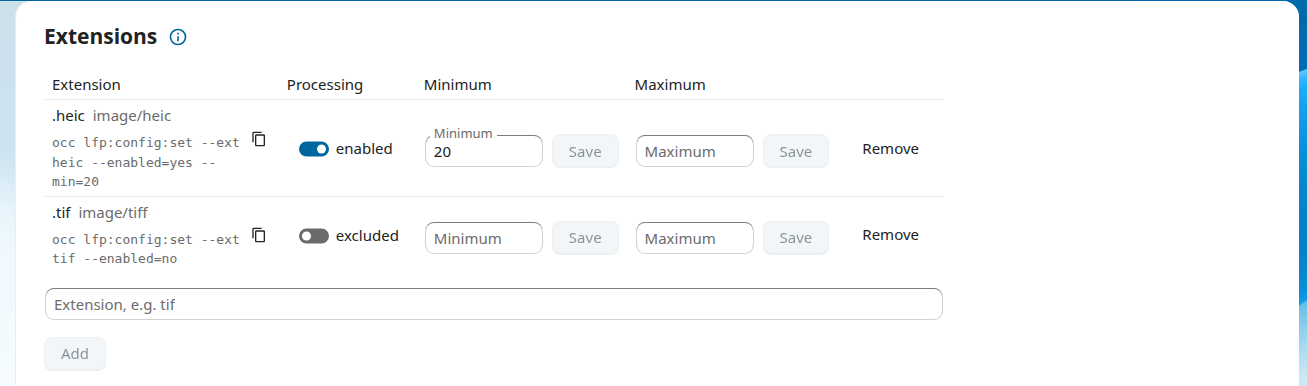
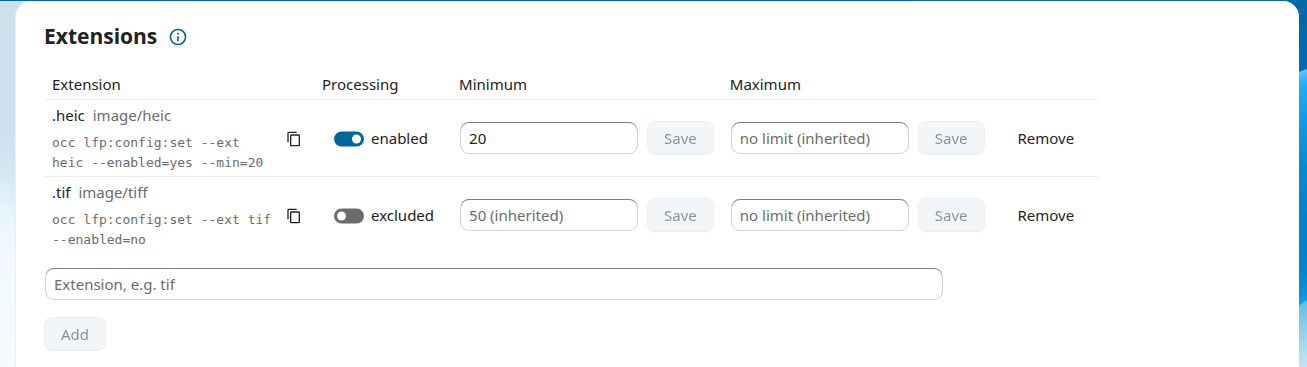
[FIX] Settings: an empty size field shows what it inherits, for MIME types and extensions alike
A rule's empty minimum or maximum now says what applies instead, as "50 (inherited)" or "no limit (inherited)", in the one row component both tables use.

Key changes:
- RuleRow.vue: the placeholder is what the row inherits, given to it, rather than worked out from what is stored, which only a MIME type had; its size fields keep their label off, where it covered the placeholder until the field had the focus
- TypesSection.vue: what each row inherits - a MIME type what it ships with, an extension its MIME type's size in force, each else the default
- NumberField.vue: a labelOutside option, the label then naming the field to assistive technology only; a rule's fields 12rem wide, room for "no limit (inherited)"
- settings-admin.css: a rule's name cell at least 18rem wide, so that the wider fields do not fold its command into five lines
- {value} (inherited): translated as "{value} (geerbt)" in de and de_DE, and in the glossary
- Vitest: what MIME types and extensions inherit, and the label kept off; Cypress: the placeholder of a TIFF and of a .heic row
- docs/Screenshots: MIME-Types and Extensions retaken, and Limits with them
- CHANGELOG.md: the settings page's bullet amended

Before, a MIME type's placeholder was set but hidden behind the field's label, and an extension had none.

diff --git a/src/settings-admin/RuleRow.vue b/src/settings-admin/RuleRow.vue
@@ -10,6 +10,10 @@
  *
  * A MIME type is enabled or disabled, and resets to what it ships with; an
  * extension is enabled, excluded, or as its MIME type, and is removed.
+ *
+ * A size field shows what is set at this level, and where nothing is, what
+ * it inherits as its placeholder: "50 (inherited)". The column header names
+ * the field, so its label stays off it, where it would cover the placeholder.
  */
 import { computed } from 'vue'
 import NcButton from '@nextcloud/vue/components/NcButton'
@@ -19,7 +23,7 @@ import OccCommand from './OccCommand.vue'
 import { ruleCommand } from './occ'
 import { rendererProblem } from './renderer'
 import { t } from '../l10n'
-import type { Renderer, Rule, RuleChange } from './types'
+import type { Inherited, Renderer, Rule, RuleChange } from './types'
 
 const props = withDefaults(defineProps<{
 	kind: 'mime' | 'ext'
@@ -38,11 +42,14 @@ const props = withDefaults(defineProps<{
 	mime?: string | null
 	/** An extension selected anyway by its MIME type, with no size of its own. */
 	noEffect?: boolean
+	/** What each size field falls back to where nothing is set at this level. */
+	inherits?: Inherited | null
 }>(), {
 	shipped: null,
 	stored: null,
 	mime: null,
 	noEffect: false,
+	inherits: null,
 })
 
 const emit = defineEmits<{
@@ -69,16 +76,15 @@ function switchText(): string {
 /** What is set at this level: a MIME type's stored fields, an extension's rule. */
 const own = computed<Rule>(() => props.stored ?? props.rule)
 
-/**
- * A MIME type's size in force, for a field left empty to show as what it
- * follows; an extension's comes from its MIME type, which the row does not
- * hold.
- */
-function inherited(value: number | undefined): string | null {
-	if (props.stored === null || value === undefined) {
+/** What a size field left empty inherits, as its placeholder. */
+function inherited(field: keyof Inherited): string | null {
+	if (props.inherits === null) {
 		return null
 	}
-	return value === -1 ? t('large_file_previews', 'no limit') : String(value)
+	const value = props.inherits[field]
+	return t('large_file_previews', '{value} (inherited)', {
+		value: value === -1 ? t('large_file_previews', 'no limit') : String(value),
+	})
 }
 
 function fieldId(field: string): string {
@@ -88,7 +94,7 @@ function fieldId(field: string): string {
 
 <template>
 	<tr :class="{ 'lfp-unavailable': !renderer.available }">
-		<td>
+		<td class="lfp-rule-name">
 			<template v-if="kind === 'ext'">
 				.{{ name }}
 				<span class="lfp-hint">{{ mime ?? '' }}</span>
@@ -112,10 +118,11 @@ function fieldId(field: string): string {
 			<NumberField :id="fieldId('min')"
 				:label="t('large_file_previews', 'Minimum')"
 				:value="own.min_size_mb ?? null"
-				:placeholder="inherited(rule.min_size_mb)"
+				:placeholder="inherited('min_size_mb')"
 				:min="0"
 				clearable
 				narrow
+				label-outside
 				:disabled="saving || !renderer.available"
 				@save="emit('save', { min_size_mb: $event })" />
 		</td>
@@ -123,10 +130,11 @@ function fieldId(field: string): string {
 			<NumberField :id="fieldId('max')"
 				:label="t('large_file_previews', 'Maximum')"
 				:value="own.max_size_mb ?? null"
-				:placeholder="inherited(rule.max_size_mb)"
+				:placeholder="inherited('max_size_mb')"
 				:min="-1"
 				clearable
 				narrow
+				label-outside
 				:disabled="saving || !renderer.available"
 				@save="emit('save', { max_size_mb: $event })" />
 		</td>

diff --git a/src/settings-admin/TypesSection.vue b/src/settings-admin/TypesSection.vue
@@ -7,7 +7,9 @@
  * scanned pages, each MIME type and each extension.
  *
  * Each table shows only what is set at its own level; an empty size field
- * is not set there. What applies in the end is the table at the top, "What
+ * is not set there, and its placeholder says what it inherits: a MIME type
+ * what it ships with, an extension its MIME type's size, each else the
+ * default. What applies in the end is the table at the top, "What
  * is processed". Each rule's row is a RuleRow; what each part means is
  * behind its ⓘ.
  */
@@ -23,9 +25,9 @@ import RuleRow from './RuleRow.vue'
 import { scalarCommand } from './occ'
 import { t } from '../l10n'
 import { scalarChange } from './types'
-import type { Changes, RuleChange, SettingsState } from './types'
+import type { Changes, Inherited, Rule, RuleChange, SettingsState } from './types'
 
-defineProps<{
+const props = defineProps<{
 	state: SettingsState
 	saving: boolean
 }>()
@@ -35,6 +37,19 @@ const emit = defineEmits<{
 }>()
 
 const newExtension = ref('')
+
+/** What a rule's empty size fields inherit: the level below's sizes, else the defaults. */
+function inheritsFrom(below: Rule | null): Inherited {
+	return {
+		min_size_mb: below?.min_size_mb ?? props.state.scalars.min_size_mb.value,
+		max_size_mb: below?.max_size_mb ?? props.state.scalars.max_size_mb.value,
+	}
+}
+
+/** An extension's MIME type's rule in force, where the app handles the type. */
+function mimeRule(mime: string | null): Rule | null {
+	return props.state.mimetypes.find((row) => row.mime === mime)?.rule ?? null
+}
 
 function saveMime(mime: string, change: RuleChange | null): void {
 	emit('save', { mimetypes: { [mime]: change } })
@@ -137,6 +152,7 @@ function addExtension(): void {
 					:rule="row.rule"
 					:stored="row.stored"
 					:shipped="row.default"
+					:inherits="inheritsFrom(row.default)"
 					:renderer="row.renderer"
 					:saving="saving"
 					@save="saveMime(row.mime, $event)" />
@@ -166,6 +182,7 @@ function addExtension(): void {
 					:name="row.extension"
 					:mime="row.mime"
 					:rule="row.rule"
+					:inherits="inheritsFrom(mimeRule(row.mime))"
 					:renderer="row.renderer"
 					:no-effect="row.noEffect"
 					:saving="saving"

diff --git a/src/settings-admin/TypesSection.spec.ts b/src/settings-admin/TypesSection.spec.ts
@@ -12,6 +12,15 @@ function row(wrapper: ReturnType<typeof section>, selector: string) {
 	return wrapper.find(selector)
 }
 
+/** The placeholders of a row's size fields, minimum first. */
+function placeholders(wrapper: ReturnType<typeof section>, selector: string): unknown[] {
+	const found: unknown[] = []
+	for (const field of row(wrapper, selector).findAllComponents({ name: 'NumberField' })) {
+		found.push(field.props('placeholder'))
+	}
+	return found
+}
+
 function tif(extra: Partial<ExtensionRow> = {}): ExtensionRow {
 	return {
 		extension: 'tif',
@@ -43,8 +52,32 @@ describe('TypesSection', () => {
 		const fields = row(section(state), '[data-mime="image/tiff"]').findAllComponents({ name: 'NumberField' })
 
 		expect(fields[0].props('value')).toBeNull()
-		expect(fields[0].props('placeholder')).toBe('50')
+		expect(fields[0].props('placeholder')).toBe('50 (inherited)')
 		expect(fields[1].props('value')).toBe(900)
+	})
+
+	it('shows what a MIME type\'s empty fields inherit: what it ships with, else the default', () => {
+		expect(placeholders(section(), '[data-mime="application/pdf"]')).toEqual(['0 (inherited)', 'no limit (inherited)'])
+	})
+
+	it('shows what an extension\'s empty fields inherit: its MIME type\'s size in force, else the default', () => {
+		const state = testState()
+		state.mimetypes[1].rule = { enabled: true, min_size_mb: 70 }
+		state.extensions = [
+			tif({ rule: { enabled: true } }),
+			tif({ extension: '7z', mime: 'application/x-7z-compressed', rule: { enabled: true } }),
+		]
+		const wrapper = section(state)
+
+		expect(placeholders(wrapper, '[data-extension="tif"]')).toEqual(['70 (inherited)', 'no limit (inherited)'])
+		expect(placeholders(wrapper, '[data-extension="7z"]')).toEqual(['0 (inherited)', 'no limit (inherited)'])
+	})
+
+	it('keeps a rule\'s size labels off its fields, where they would cover the placeholder', () => {
+		for (const field of row(section(), '[data-mime="application/pdf"]').findAllComponents({ name: 'NumberField' })) {
+			expect(field.props('labelOutside')).toBe(true)
+			expect(field.find('input').attributes('aria-label')).toBe(field.props('label'))
+		}
 	})
 
 	it('gives an extension the command for its rule', () => {

diff --git a/src/settings-admin/NumberField.vue b/src/settings-admin/NumberField.vue
@@ -8,6 +8,10 @@
  * is not set at this level. The field shows only what is set here, never a
  * value from another level; what applies where it is empty may be its
  * placeholder. Its help, where it has one, is an ⓘ after the button.
+ *
+ * A label inside the field covers the placeholder until the field has the
+ * focus; where a column header names the field, `labelOutside` drops the
+ * label, which then names the field to assistive technology only.
  */
 import { computed, ref, watch } from 'vue'
 import NcButton from '@nextcloud/vue/components/NcButton'
@@ -23,6 +27,8 @@ const props = withDefaults(defineProps<{
 	max?: number | null
 	clearable?: boolean
 	narrow?: boolean
+	/** No visible label, so that the placeholder shows: a column header names the field. */
+	labelOutside?: boolean
 	disabled?: boolean
 	/** What applies where the field is empty: the value of the level below. */
 	placeholder?: string | null
@@ -33,6 +39,7 @@ const props = withDefaults(defineProps<{
 	max: null,
 	clearable: false,
 	narrow: false,
+	labelOutside: false,
 	disabled: false,
 	placeholder: null,
 	help: null,
@@ -73,6 +80,8 @@ function save(): void {
 			class="lfp-number__field"
 			type="number"
 			:label="label"
+			:label-outside="labelOutside"
+			:aria-label="labelOutside ? label : undefined"
 			:placeholder="placeholder ?? undefined"
 			:min="min ?? undefined"
 			:max="max ?? undefined"
@@ -103,8 +112,9 @@ function save(): void {
 	width: 16rem;
 }
 
+/* A rule's size: wide enough for what it inherits, "no limit (inherited)". */
 .lfp-number--narrow .lfp-number__field {
-	width: 8rem;
+	width: 12rem;
 }
 
 .lfp-number__save {

diff --git a/tests/e2e/settings.cy.js b/tests/e2e/settings.cy.js
@@ -10,7 +10,7 @@ const EXTENSIONS = [ '7z', 'heic', 'pdf' ]
 // A type that ships a minimum of its own, 50 MiB: the field shows what is
 // stored, and the shipped value only as its placeholder.
 const MIME = 'image/tiff'
-const SHIPPED_MIN = '50'
+const SHIPPED_MIN = '50 (inherited)'
 
 // @nextcloud/dialogs' toast container; its class is a CSS-module hash, so
 // it is matched by the stable half of the name, as src/toast.css does.
@@ -75,6 +75,10 @@ describe( 'The settings page', () => {
 		cy.get( 'tr[data-extension="heic"]', { timeout: FIND_TIMEOUT } )
 			.should( 'contain', 'image/heic' )
 			.and( 'contain', 'enabled' )
+		// Its sizes are empty, and inherit HEIC's: a minimum of 50 MiB, no
+		// maximum.
+		cy.get( 'input[id="lfp-min-ext-heic"]' ).should( 'have.value', '' ).and( 'have.attr', 'placeholder', '50 (inherited)' )
+		cy.get( 'input[id="lfp-max-ext-heic"]' ).should( 'have.value', '' ).and( 'have.attr', 'placeholder', 'no limit (inherited)' )
 		cy.get( '.lfp-active tbody tr' ).filter( ':contains(".heic")' )
 			.should( 'have.length', 1 )
 			.and( 'contain', 'image/heic' )

diff --git a/src/settings-admin/NumberField.spec.ts b/src/settings-admin/NumberField.spec.ts
@@ -64,6 +64,17 @@ describe('NumberField', () => {
 		expect(wrapper.element.lastElementChild?.classList.contains('lfp-help')).toBe(true)
 	})
 
+	it('drops its visible label where it is outside, and stays named by it', () => {
+		const inside = field({ value: null, placeholder: '50 (inherited)' }).wrapper
+		const outside = field({ value: null, placeholder: '50 (inherited)', labelOutside: true }).wrapper
+
+		expect(inside.find('label').text()).toBe('Seconds')
+		expect(inside.find('input').attributes('aria-label')).toBeUndefined()
+		expect(outside.find('label').exists()).toBe(false)
+		expect(outside.find('input').attributes('aria-label')).toBe('Seconds')
+		expect(outside.find('input').attributes('placeholder')).toBe('50 (inherited)')
+	})
+
 	it('has no help button without a help text', () => {
 		expect(field().wrapper.findComponent(HelpPopover).exists()).toBe(false)
 	})

diff --git a/src/settings-admin/types.ts b/src/settings-admin/types.ts
@@ -91,6 +91,16 @@ export interface ActiveRow {
 	max_size_mb: Sourced<number>
 }
 
+/**
+ * What a rule's size fields fall back to where nothing is set at its level:
+ * for a MIME type, what it ships with, else the default; for an extension,
+ * its MIME type's size in force, else the default.
+ */
+export interface Inherited {
+	min_size_mb: number
+	max_size_mb: number
+}
+
 export interface MimeRow {
 	mime: string
 	/** The rule in force: the shipped default with what is stored laid over it. */

diff --git a/l10n/de.js b/l10n/de.js
@@ -161,6 +161,7 @@ OC.L10N.register(
     "system config" : "Systemkonfiguration",
     "the PHP extension %s is missing" : "die PHP-Erweiterung %s fehlt",
     "the PHP function %s is disabled" : "die PHP-Funktion %s ist deaktiviert",
-    "the program %s is missing" : "das Programm %s fehlt"
+    "the program %s is missing" : "das Programm %s fehlt",
+    "{value} (inherited)" : "{value} (geerbt)"
 },
 "nplurals=2; plural=(n != 1);");

diff --git a/l10n/de_DE.js b/l10n/de_DE.js
@@ -161,6 +161,7 @@ OC.L10N.register(
     "system config" : "Systemkonfiguration",
     "the PHP extension %s is missing" : "die PHP-Erweiterung %s fehlt",
     "the PHP function %s is disabled" : "die PHP-Funktion %s ist deaktiviert",
-    "the program %s is missing" : "das Programm %s fehlt"
+    "the program %s is missing" : "das Programm %s fehlt",
+    "{value} (inherited)" : "{value} (geerbt)"
 },
 "nplurals=2; plural=(n != 1);");

diff --git a/src/settings-admin/settings-admin.css b/src/settings-admin/settings-admin.css
@@ -31,6 +31,14 @@
 	border-top: 1px solid var(--color-border);
 }
 
+/*
+ * A rule's name and its command: room enough that the command wraps once
+ * at most, where the size fields beside it would otherwise squeeze it.
+ */
+.lfp-settings .lfp-rule-name {
+	min-width: 18rem;
+}
+
 .lfp-settings .lfp-limit {
 	margin-block-end: calc(var(--default-grid-baseline) * 4);
 }

diff --git a/translationfiles/de/GLOSSARY.md b/translationfiles/de/GLOSSARY.md
@@ -30,6 +30,7 @@ and in `appinfo/info.xml` where its summary or description has it.
 | extension | Dateiendung, Dateiendungen | not *Erweiterung*, which is a PHP extension |
 | PHP extension | PHP-Erweiterung | |
 | default, defaults | Standard, Standardwerte | |
+| inherited | geerbt | a size field's placeholder: „50 (geerbt)“ |
 | override | Vorrang haben | „hat Feld für Feld Vorrang vor“; not *übersteuern*, which is Swiss usage |
 | enabled / disabled / excluded | aktiviert / deaktiviert / ausgeschlossen | a rule's processing, and how the help text quotes it |
 | limit, limits | Grenze, Grenzen | the section; „keine Grenze“ for no limit |

diff --git a/CHANGELOG.md b/CHANGELOG.md
@@ -54,7 +54,7 @@ the first stable release.
 
 - *Administration settings → Additional settings*: version, status,
   files processed, previews, limits, failed files, libvips, programs,
-  each shown as stored, with its `occ` command and its help behind an ⓘ.
+  each as stored, an empty size as inherited, with `occ` and ⓘ help.
 
 - `occ lfp:config:show`, `get`, `set` and `unset`: the configuration,
   what a type or file resolves to, and validated changes, a MIME type's
